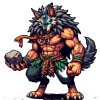
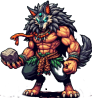
Intento 1 de cambio de nivel
También se le cambio el tamaño a las imagenes de los demonios

diff --git a/Exorcista/src/nivel/Nivel.java b/Exorcista/src/nivel/Nivel.java
@@ -19,6 +19,8 @@ import java.io.IOException;
 import java.util.ArrayList;
 import java.util.Iterator;
 import java.util.Random;
+import java.util.logging.Level;
+import java.util.logging.Logger;
 import nivel.elementos.cofre.Cofre;
 import nivel.elementos.pared.Llave;
 import nivel.elementos.pared.Pared;
@@ -41,7 +43,6 @@ public class Nivel extends Dibujo
     private FabricaDemonios fabrica;
     
     private int numNivel;
-    private AudioClip soundTrack;
     
     private Angel angel;
     
@@ -232,26 +233,29 @@ public class Nivel extends Dibujo
     } 
 
     public void moverAngel(int codigo){
-
+        //Tengo que guardar la posicion del angel en tal caso que tenga de deshacer un movimiento
         //posiciones anteriores al movimiento. es decir la posicion del angel antes de moverse 
         int xAnterior = (int) angel.getX();
         int yAnterior =  (int) angel.getY();
         
-        //Tengo que guardar la posicion del angel en tal caso que tenga de deshacer un movimienot
         boolean movimientoAngel = angel.mover(codigo); // Si se mueve me retorna true de lo contrario false 
         if(movimientoAngel == true){  
          // Verificar colisión con los demonios
             for (int i = 0; i < demonios.size(); i++) {
-
                 if (angel.intersects(demonios.get(i))) {
                     // Si hay colisión, revertir el movimiento
                     angel.revertirMovimiento(xAnterior, yAnterior);
  
                      break;
-                    
                 }
             }
            notificador.notificarCambios();
+        }
+        
+        if (llaveFinNivel != null && angel.intersects(llaveFinNivel)) {
+            llaveFinNivel = null;
+        
+            notificador.notificarFinNivel();
         }
     }
     
@@ -261,7 +265,8 @@ public class Nivel extends Dibujo
             pared.dibujar(g);
         }
         
-        puerta.dibujar(g);
+        if (puerta != null)
+            puerta.dibujar(g);
         
         for (Cofre cofre: cofres) {
             cofre.dibujar(g);
@@ -381,6 +386,8 @@ public class Nivel extends Dibujo
         for (int i = 0; i<demonios.size(); i++){
             if(demonios.get(i).intersects(rayo)){
                 if (demonios.get(i).recibirImapcto(Angel.DAÑO)){
+                    System.out.println(demonios.size());
+                    System.out.println(i);
                     eliminarDemonio(demonios.get(i));
                     notificador.notificarCambios();
                 }
@@ -398,12 +405,8 @@ public class Nivel extends Dibujo
              return false;
     }
 
-    private void reproducirEventoFinDeNivel(int x, int y) {
-        //TO-DO
-        
-        llaveFinNivel = new Llave(x, y, imagenes[ConstantesComunes.IMAGEN_LLAVE]);
-        //Cambiar el booleano tieneLaLLave
-        
+    private void reproducirEventoFinDeNivel(int x, int y) {        
+        llaveFinNivel = new Llave(x, y, imagenes[ConstantesComunes.IMAGEN_LLAVE]);        
         
     }
 

diff --git a/Exorcista/src/control/Mazmorra.java b/Exorcista/src/control/Mazmorra.java
@@ -17,6 +17,8 @@ import java.awt.event.MouseEvent;
 import java.io.File;
 import java.io.IOException;
 import java.util.ArrayList;
+import java.util.logging.Level;
+import java.util.logging.Logger;
 import javax.imageio.ImageIO;
 import nivel.Nivel;
 
@@ -76,7 +78,7 @@ public class Mazmorra extends Dibujo
                 || codigo == KeyEvent.VK_DOWN
                 || codigo == KeyEvent.VK_RIGHT
                 || codigo == KeyEvent.VK_LEFT ) {
-
+            
             niveles.get(numNivel-1).moverAngel(codigo);
         }
     }
@@ -136,6 +138,15 @@ public class Mazmorra extends Dibujo
         
         imagenes[14] = ImageIO.read(new File("imagenes\\paredes\\Puertas\\llave2.png"));
         
+    }
+
+    @Override
+    public void notificarFinNivel() {
+        try {
+            agregarNivel();
+        } catch (IOException ex) {
+            ex.getStackTrace();
+        }
     }
     
     

diff --git a/Exorcista/src/nivel/elementos/pared/Puerta.java b/Exorcista/src/nivel/elementos/pared/Puerta.java
@@ -6,25 +6,28 @@ package nivel.elementos.pared;
 
 import java.awt.Graphics2D;
 import java.awt.Image;
-import java.io.IOException;
 import sprite.Dibujo;
 
-/**
- *
- * @author Alejandro
- */
+
 public class Puerta extends Dibujo {
     public static final int ANCHO = 100;
     public static final int ALTO = 100;
 
-    public Puerta(int x, int y, Image imagen) {
-        super(x, y, ANCHO, ALTO, imagen);
+    private Image imagenAbierta;
+    
+    public Puerta(int x, int y, Image imagenCerrada, Image imagenAbierta) {
+        super(x, y, ANCHO, ALTO, imagenCerrada);
         
+        this.imagenAbierta = imagenAbierta;
     }
 
     @Override
     public void dibujar(Graphics2D g) {
         g.drawImage(imagen, x, y, ANCHO, ALTO, null);
+    }
+
+    public void abrir() {
+        imagen = imagenAbierta;
     }
     
 }

diff --git a/Exorcista/src/herramientas/FabricaNivel.java b/Exorcista/src/herramientas/FabricaNivel.java
@@ -40,6 +40,7 @@ public class FabricaNivel {
     
     public Nivel crearNivel(int numNivel, Angel angel, Notificable notificador) throws IOException {
         lector.setBufferedReader("archivos\\niveles\\nivel" + numNivel + ".txt");
+        
         ArrayList<Cofre> cofres = new ArrayList<>();
         ArrayList<Alma> almas = new ArrayList<>();
         ArrayList<Trampa> trampas = new ArrayList<>();
@@ -155,7 +156,7 @@ public class FabricaNivel {
     }
 
     private Puerta crearPuerta(int x, int y) throws IOException {
-        return new Puerta(x, y, imagenes[ConstantesComunes.IMAGEN_PUERTA]);
+        return new Puerta(x, y, imagenes[ConstantesComunes.IMAGEN_PUERTA], imagenes[ConstantesComunes.IMAGEN_PUERTA]);
     }
     
     

diff --git a/Exorcista/src/personajes/demonios/DemonioElectrico.java b/Exorcista/src/personajes/demonios/DemonioElectrico.java
@@ -16,8 +16,8 @@ import personajes.Angel;
  * @author Alejandro
  */
 public class DemonioElectrico extends Demonio {
-    public static final int ANCHO = 113;
-    public static final int ALTO = 130; 
+    public static final int ANCHO = 84;
+    public static final int ALTO = 124; 
         
     public DemonioElectrico(int posX, int posY, Delimitable bordes, Angel enemigo, Notificable notificador, Image imagen) {
         super(posX, posY, ANCHO, ALTO, bordes, enemigo, notificador, imagen);

diff --git a/Exorcista/src/personajes/demonios/DemonioFuego.java b/Exorcista/src/personajes/demonios/DemonioFuego.java
@@ -21,8 +21,8 @@ import static personajes.demonios.DemonioElectrico.ANCHO;
  * @author Alejandro
  */
 public class DemonioFuego extends Demonio{
-    public static final int ANCHO = 130;
-    public static final int ALTO = 130; 
+    public static final int ANCHO = 85;
+    public static final int ALTO = 125; 
     
     private Image imagenFuego;
     

diff --git a/Exorcista/src/personajes/demonios/DemonioSelvatico.java b/Exorcista/src/personajes/demonios/DemonioSelvatico.java
@@ -19,8 +19,8 @@ import personajes.Angel;
  * @author Alejandro
  */
 public class DemonioSelvatico extends Demonio{
-    public static final int ANCHO = 80;
-    public static final int ALTO = 80; 
+    public static final int ANCHO = 92;
+    public static final int ALTO = 98; 
     
     private Image imagenRoca;
     

diff --git a/Exorcista/src/interfaces/Notificable.java b/Exorcista/src/interfaces/Notificable.java
@@ -10,4 +10,5 @@ package interfaces;
  */
 public interface Notificable {
     public void notificarCambios();
+    public void notificarFinNivel();
 }

diff --git a/Exorcista/src/personajes/Angel.java b/Exorcista/src/personajes/Angel.java
@@ -121,5 +121,6 @@ public class Angel extends Dibujo {
         this.verificador = verificador;
         
     }
+
        
 }
